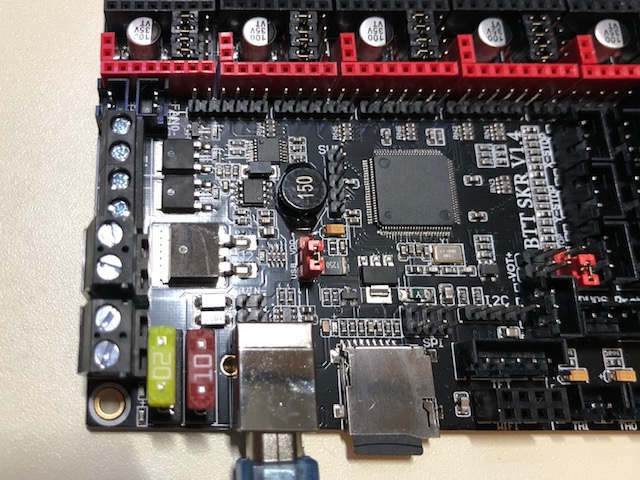
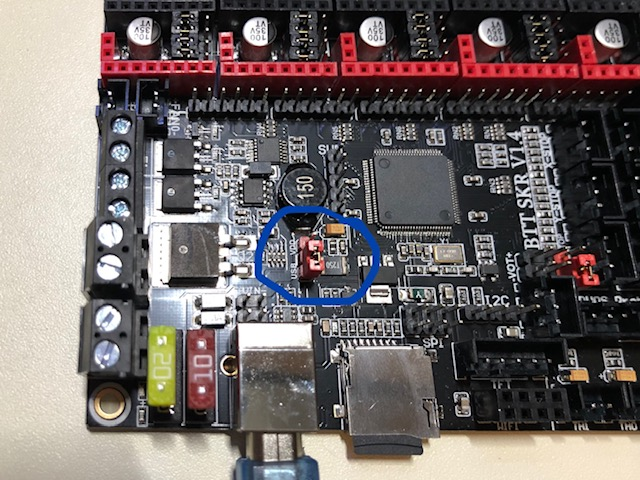
added a hardware section

diff --git a/_posts/2020-01-21-ender3-skr1.4t-bmg.md b/_posts/2020-01-21-ender3-skr1.4t-bmg.md
@@ -44,7 +44,7 @@ There's really not too much to say about this part of the build, I'm sure there 
 <img src="{{site.baseurl}}/assets/images/printer/build/2.jpg">
 I wanted to make sure the printer was very tight and I found the alluminium pretty soft to the point I completely stripped one of the two holes that connects the x-axis motor bracket to the cross-member.
 <img src="{{site.baseurl}}/assets/images/printer/build/3.jpg">
-The screw went into the back side of the circled hole. I left is stripped and haven't replaced it with a longer screw that would thread through the other side of the extruded alluminium cross-member, but this is on the todo list for sure.
+The screw went into the back side of the circled hole. I left it stripped and haven't replaced it with a longer screw that would thread through the other side of the extruded alluminium cross-member, but this is on the todo list for sure.
 <img src="{{site.baseurl}}/assets/images/printer/build/4.jpg">
 Other than that, I was able to build the printer, power it up, and start my first build within 1 hour.
 <img src="{{site.baseurl}}/assets/images/printer/build/5.jpg">
@@ -65,28 +65,75 @@ The stock Ender 3 Pro prints pretty nicely.
 <img src="{{site.baseurl}}/assets/images/printer/bmg/3.jpg">
 
 #### SKR v1.4 Turbo Software<a name="SKR v1.4 Turbo Software"></a>
+
 The software aspect of this project has been very straight forward for me as I am familiar with arduino, C, C++, and VS code. I know that it can be a very daunting task for someone who has not compiled microcontroller firmware before, but if you stick to the instructions and help from reddit and the appropriate githubs you can definitely make it work. I found the BIGTREETECH-SKR-V1.3 repo and saw there was a folder for Marlin-2.0.x-SKR-V1.4-Turbo. I did some diffs between the `BIGTREETECH-SKR-V1.3/BTT SKR V1.4/Firmware/Marlin-2.0.x-SKR-V1.4-Turbo/config/default/Configuration.h` and `BIGTREETECH-SKR-V1.3/BTT SKR V1.4/Firmware/Marlin-2.0.x-SKR-V1.4-Turbo/config/default/Configuration_adv.h` and the `BIGTREETECH-SKR-V1.3/BTT SKR V1.4/Firmware/Marlin-2.0.x-SKR-V1.4-Turbo/config/examples/Creality/Ender-3/Configuration.h ` and `BIGTREETECH-SKR-V1.3/BTT SKR V1.4/Firmware/Marlin-2.0.x-SKR-V1.4-Turbo/config/examples/Creality/Ender-3/Configuration_adv.h` files and chose which `#define`'s to keep from the Ender 3 Pro file and the SKR files based on if the parameter seemed associated with a physical component of the Ender 3 Pro or if it appeared to be a controller based parameter. About 30 minutes later I had the basis for the configurations that I'm running right now I type this. I have tweaked a couple of parameters related to speed/acceleration, the BMG extrusion rate, and the SDCard (it would not let me mount it from the LCD so I enabled the SDCard being mounted at all times, which broke the USB interface being available to my PC, but it's been working and I wanted to get it up and running ASAP). I've got my entire configuration available on [my fork the the BIGTREETECH repo](https://github.com/mathpluslabs/BIGTREETECH-SKR-V1.3). If you have never compiled firmware before, the location of configurations that is actually compiled is at [BIGTREETECH-SKR-V1.3/BTT SKR V1.4/Firmware/Marlin-2.0.x-SKR-V1.4-Turbo/Marlin/](https://github.com/mathpluslabs/BIGTREETECH-SKR-V1.3/tree/master/BTT%20SKR%20V1.4/Firmware/Marlin-2.0.x-SKR-V1.4-Turbo/Marlin). I am using the platform.io extenstion within VS code to compile Marlin. Just use the tutorial on the [Marlin github](https://marlinfw.org/docs/basics/install_platformio_vscode.html). There documentation needs to be updated though, after cloning the project in step 3, you'll want to go back to the platform.io tab on the left and then the `PIO Home` tab on the top. Then chose `Import Arduino Project`, this will actually enable you to have the `Build` option in the left side bar like their step 4 shows.
 
 <img src="{{site.baseurl}}/assets/images/printer/software/1.jpg">
 
 #### SKR v1.4 Turbo Hardware<a name="SKR v1.4 Turbo Hardware"></a>
 
+Alright, on to the hardware! Did I mention I love getting to play around with new hardware? So just a disclaimer, I only used the wiring diagram below and a multimeter to get everything connected. 
+These are all the connections that I ended up using on the board starrting in the top left hand corner and rotating clock wise around the board:
+- FAN -> Hot End Fan 0
+- XM -> X-axis Stepper Motor
+- YM -> Y-axis Stepper Motor
+- ZAM -> Z-axis Stepper Motor
+- E0M -> Extrudder Stepper Motor
+- LCD -> Ender LCD
+- X-STOP -> X-axis Stop Switch
+- Y-STOP -> Y-axis Stop Switch
+- Z-STOP -> Z-axis Stop Switch
+- TB -> Heated Bed Thermocouple
+- T0 -> Hot End Thermocouple
+- SD-CARD -> SD Card Provided With Board
+- USB -> Computer
+- DCIN -> 24V Power Supply
+- HB -> Heated Bed
+- HE0 -> Heated Hot End
+- FAN -> Hot End Fan 1
+Note that there are a lot more connections than what I have made as of right now.
 <img src="{{site.baseurl}}/assets/images/printer/hardware/1.jpg">
+Here is the stock Ender 3 Pro board which we will simply disconnect all the wires on the board. Most wires have connectors but a few have terminal blocks that you will need to unwire. Pay attention to what you remove and probably transfer them to the new board one by one would be the best bet. If you run into an issue remembering where something was connected just trace it back to the device that is connected to it. The x, y, and z axis motors and switches have little labels on them to make things easier.
 <img src="{{site.baseurl}}/assets/images/printer/hardware/2.jpg">
+So someone out there might be wondering why I put the software section first and that is because I actually built the firmware and flashed the ARM MCU before I connected any extra hardware to the board. I didn't know what firmware was on the board when I got it so I just played it safe. First I moved the jumper shown below to `USB` and then powered the board up by plugging it into my laptop. The SD Card enumerated as a USB disk and I copied my `firmware.bin` file over and made a backup of the `FIRMWARE.CUR` file that already existed on the card and deleted it so only `firmware.bin` existed on the card. 
 <img src="{{site.baseurl}}/assets/images/printer/hardware/3.jpg">
+Next, I tested that the firmware was actually functional by plugging the LCD display from the Ender 3 Pro into the SDK v1.4 turbo and powered it up from my laptop's USB port.
 <img src="{{site.baseurl}}/assets/images/printer/hardware/4.jpg">
+I was then met by a good old blue led backlit liquid crystal display, simply beautiful, as one of my professors in school would say. So you can see that the firmware compiled and is functional, but whether it works and is configured correctly can only be determined by connecting some hardware. I chose to start with the x-axis stepper motor.
 <img src="{{site.baseurl}}/assets/images/printer/hardware/5.jpg">
+Here are the TCM2209's that came with the board. They did not have heatsinks installed by the factory. So let's prep them to get installed.
 <img src="{{site.baseurl}}/assets/images/printer/hardware/6.jpg">
+The heatsinks are super easy to install if you have never put one on before.
 <img src="{{site.baseurl}}/assets/images/printer/hardware/7.jpg">
+Just peel off the part that covers the sickiness of the tape and put it on and press down with some force. Do note that you'll want the longer side of the heatsink to match up with the longer side of the pad on the board.
 <img src="{{site.baseurl}}/assets/images/printer/hardware/8.jpg">
+Now there is an [instruction manual](https://github.com/mathpluslabs/BIGTREETECH-SKR-V1.3/blob/master/BTT%20SKR%20V1.4/BTT%20SKR%20V1.4%20Instruction%20Manual.pdf) that states `Note: When using the TMC2209, if you don't use the stallguard function, you need to cut off the DIAG pin on the driver so that the mechanical switch can work normally.` So I went with bending all the pins over instead of cutting them like the manual recommends. If you've never bent a header pin before, you only get 1 or 2 bends before they will snap off.
 <img src="{{site.baseurl}}/assets/images/printer/hardware/9.jpg">
+The board comes with all the jumpers set on the stepper motor drivers, so configure your jumpers like in the green circle for UART mode and you'll be all set.
 <img src="{{site.baseurl}}/assets/images/printer/hardware/10.jpg">
+I started with just the x-axis stepper motor instead of plugging everything in at once so I could isolate issues if there were any and reduce debugging time. I inserted the stepper motor into it's socket and connected the stepper motor cable with an x label on it. After moving the red jumper back to VDD, (add connecting the power) I powered it up and attempted to move the x-axis via the LCD and voila! We've got a moving x-axis stepper motor!
 <img src="{{site.baseurl}}/assets/images/printer/hardware/11.jpg">
+I bent all the pins on the TMC2209's and installed them along with their corresponding motors.
 <img src="{{site.baseurl}}/assets/images/printer/hardware/12.jpg">
+The order that I connected everything was:
+  1. LCD
+  2. Power
+  3. Stepper motors
+  4. End Stop Switches
+  5. Fans
+  6. Heated Bed Thermocouple
+  7. Hot End Thermocouple
+  8. Heated Bed
+  9. Heated Hot End
+Note that I was still skeptical of the firmware configuration as it was my first attempt at compiling Marlin on a brand new board so I wired everything in steps testing each component individually before moving to the next one. After all the motors were connected the `TMC Connection Error` on the LCD went away. When connecting the thermocouples I saw the temperature was 22 C instead of the -14 C that is shown without anything connected. And when I connected the heating elements I increased their temperature and saw each increase, but made sure the wrong one didn't increase as if I wired them wrong. I power cycled between each component being wired up and did not just hot plug while the board was powered... please don't do that.
 <img src="{{site.baseurl}}/assets/images/printer/hardware/13.jpg">
+And wiring complete!
 <img src="{{site.baseurl}}/assets/images/printer/hardware/14.jpg">
+You can see here that hot end and bed are heating and their thermocouples are working.
 <img src="{{site.baseurl}}/assets/images/printer/hardware/15.jpg">
+Now I need to print a case to house this sweet new board and my octopi, but for now she's going to just sit like this on my anti-static mat.
 <img src="{{site.baseurl}}/assets/images/printer/hardware/16.jpg">
+Oh and if you use the firmware from my [fork](https://github.com/mathpluslabs/BIGTREETECH-SKR-V1.3), you might want to change the display a bit ;)
 <img src="{{site.baseurl}}/assets/images/printer/hardware/17.jpg">
 
 #### Results and Calibration Prints<a name="Results and Calibration Prints"></a>
